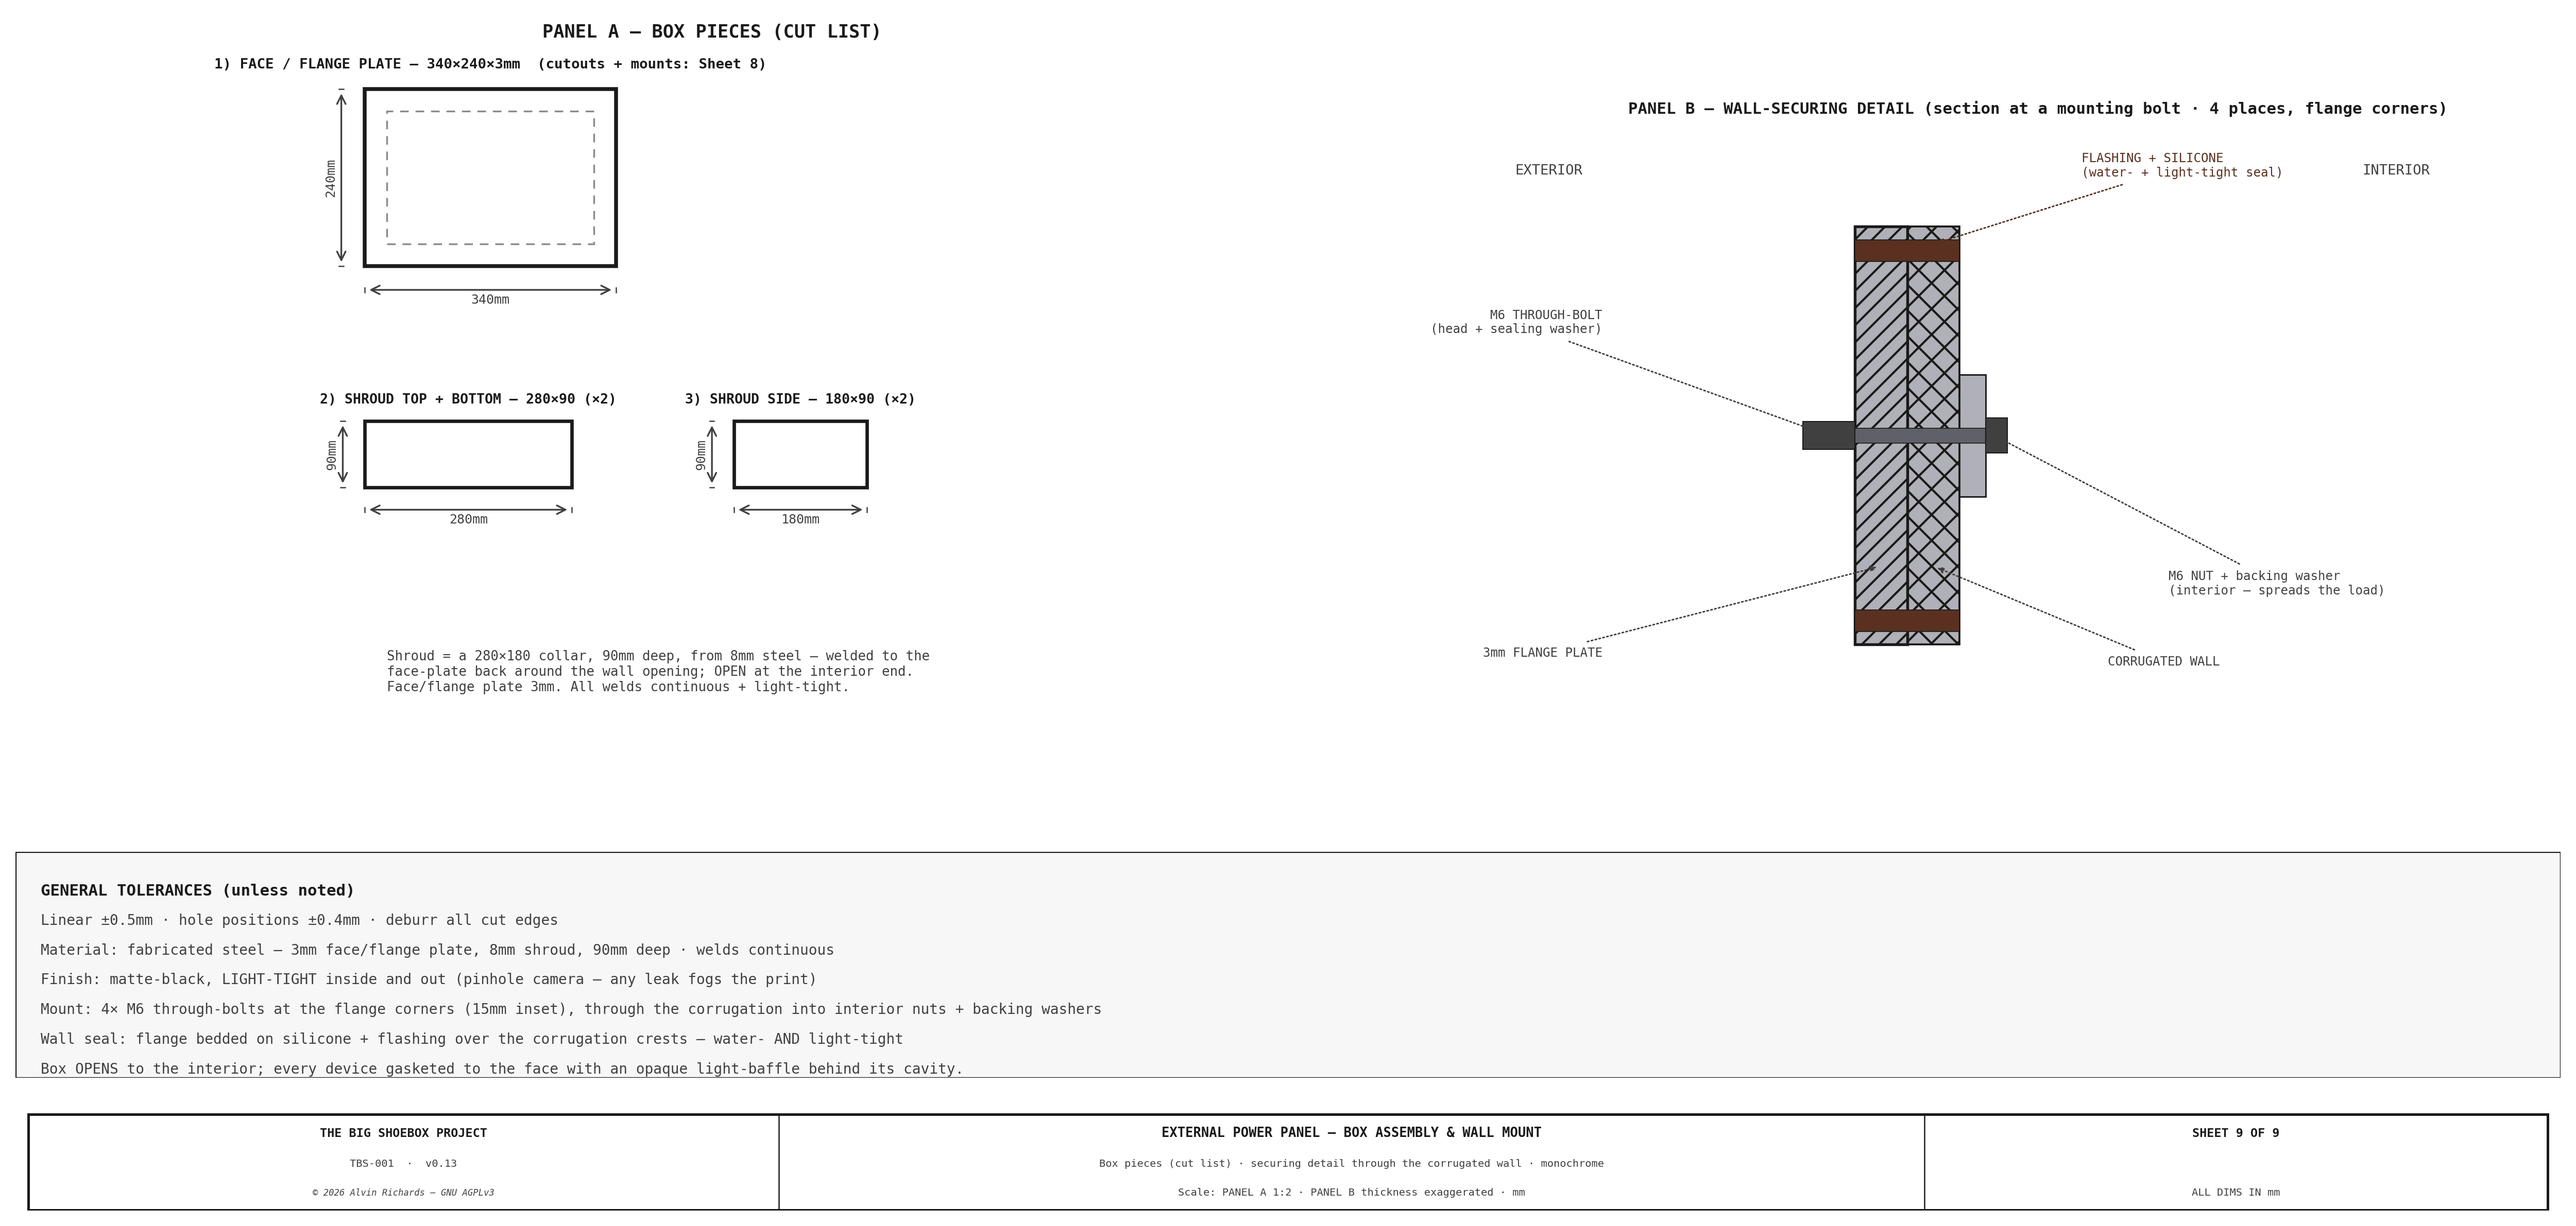
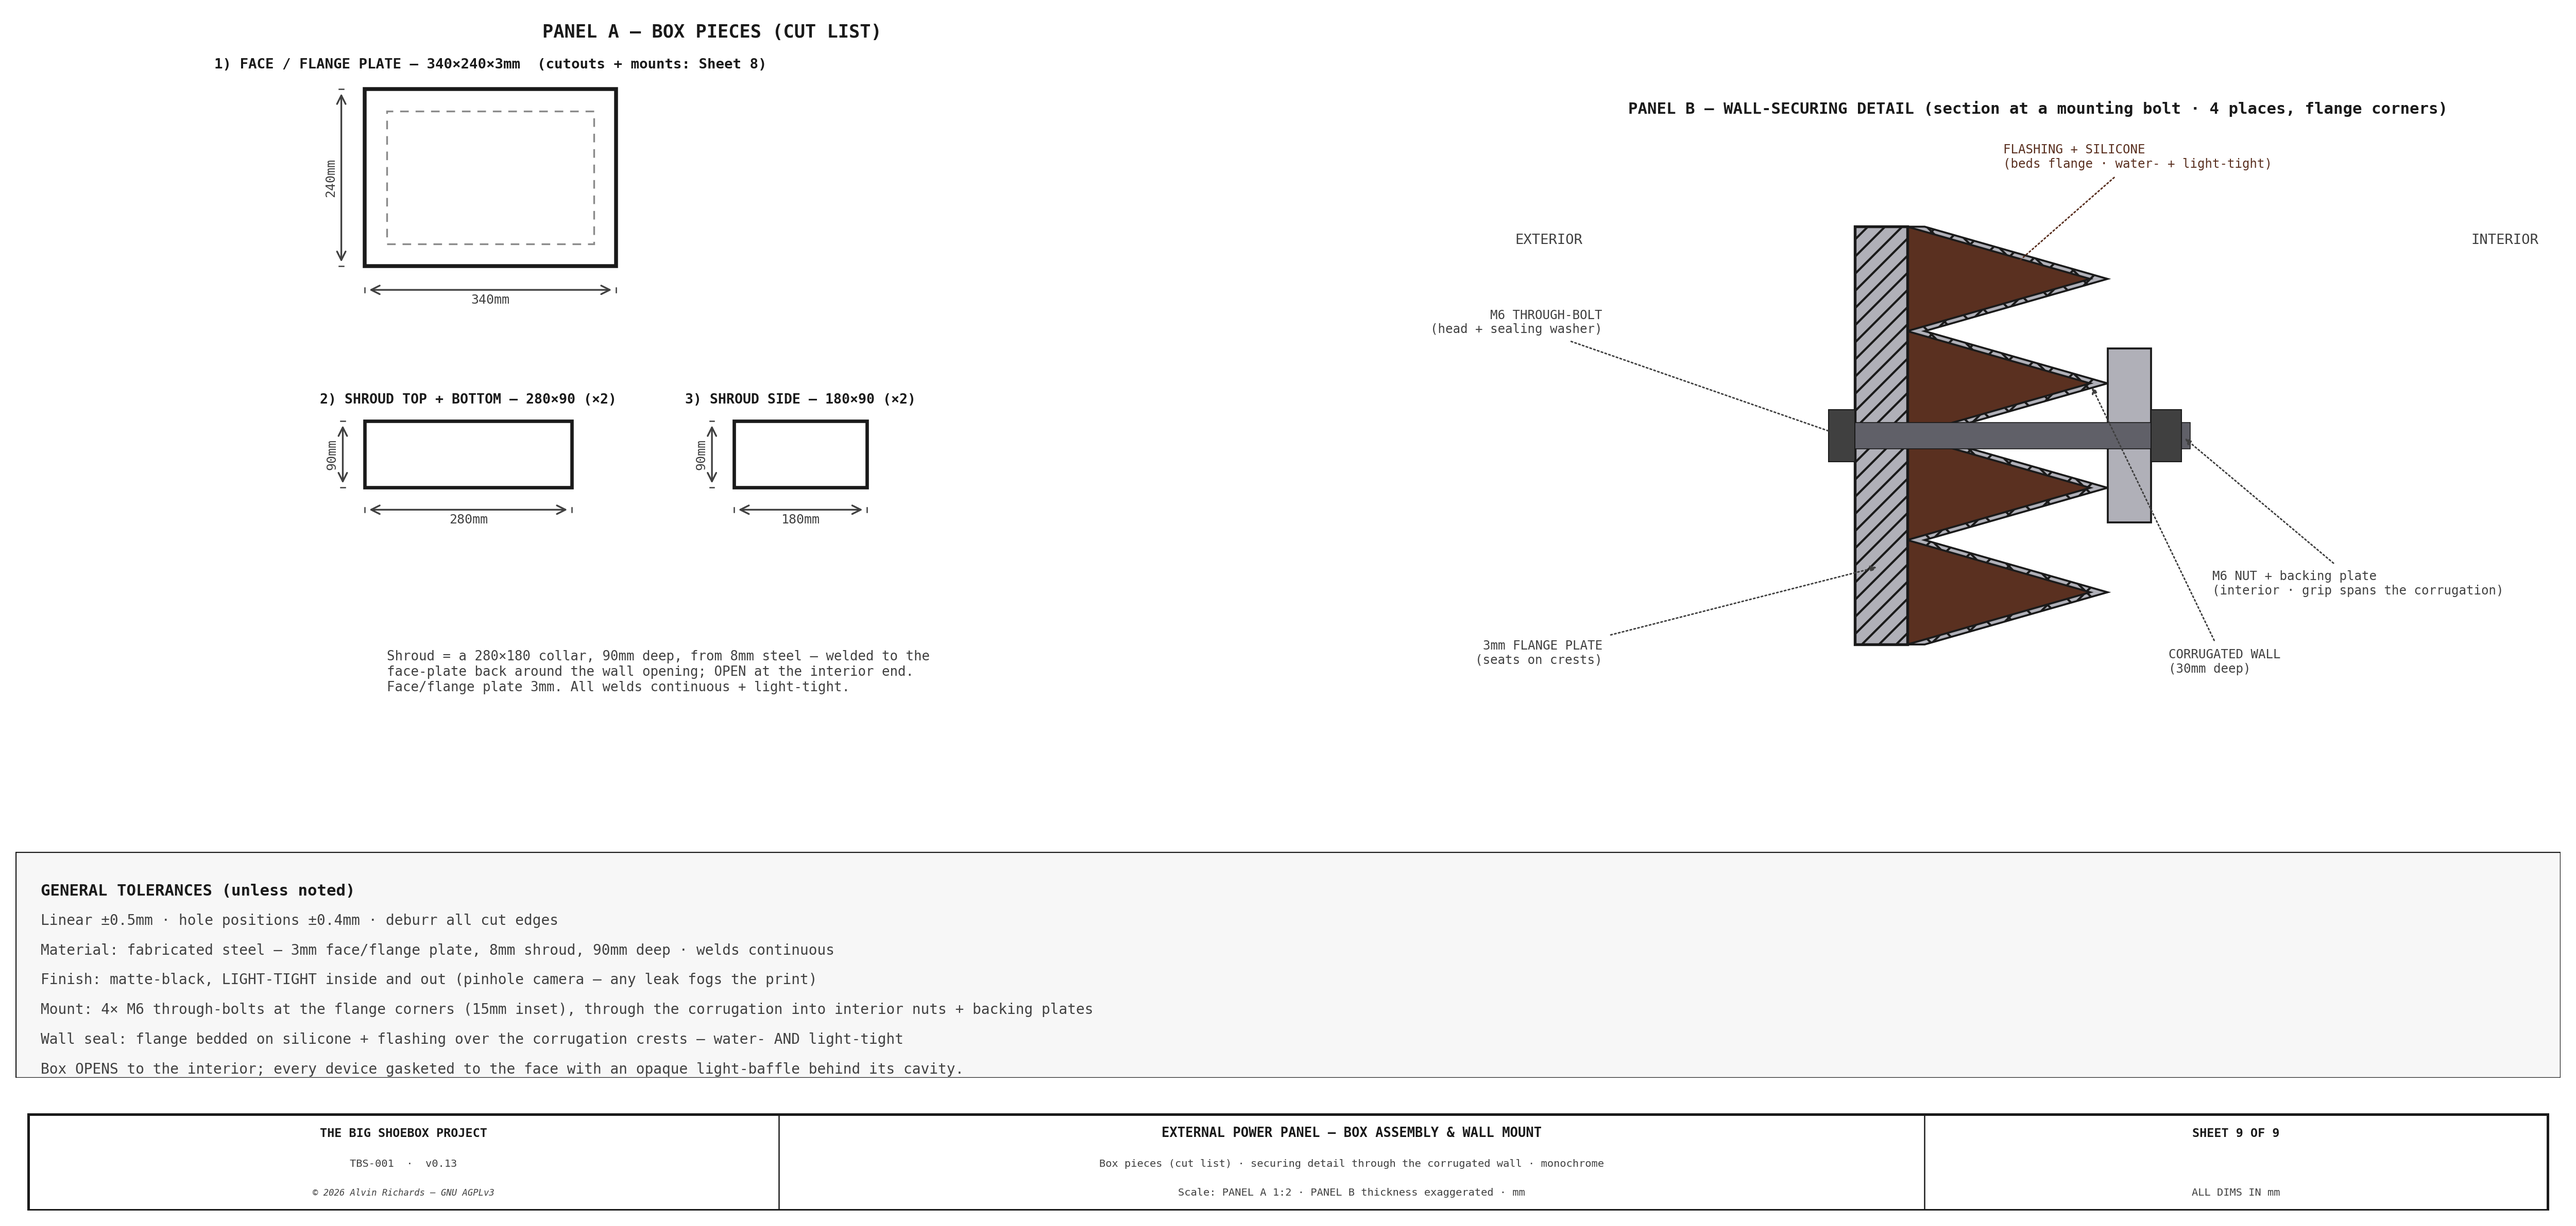
Electrical Sheet 9 Panel B: correct corrugated-wall mount detail + hex nut
Redraw the wall-securing section to the established project detail: the flat
flange seats on the corrugation crests, the flashing+silicone beds the
flange↔wall interface (was drawn as top/bottom bands), and the M6 through-bolt
grip spans the 30mm corrugation depth to an interior backing plate. Draw the
hex head and nut as a matched pair (thin axial × tall across-flats), fixing the
nut orientation.

diff --git a/src/generators/generate_electrical_diagram.py b/src/generators/generate_electrical_diagram.py
@@ -2423,7 +2423,7 @@ def draw_sheet9():
     """External Power Panel — BOX ASSEMBLY & WALL MOUNT (monochrome fab sheet).
     Panel A: the box as separate pieces, each dimensioned (face/flange plate + shroud walls).
     Panel B: a section through a mounting bolt showing how the box is secured through the wall."""
-    from tbs_constants import PWR_PANEL_BOX_D, PWR_PANEL_SHROUD_T
+    from tbs_constants import PWR_PANEL_BOX_D, PWR_PANEL_SHROUD_T, CONTAINER_CORRUGATION_DEPTH
     C_OUT = "#1A1A1A"; C_DIM = "#404040"; C_HID = "#8A8A8A"
     C_STEEL = "#B0B0B8"; C_GASKT = "#5A3020"
     FONT = {"fontfamily": "monospace"}
@@ -2462,34 +2462,44 @@ def draw_sheet9():
     ax.text(15, 40, f"Shroud = a {CW}×{CH} collar, {BD}mm deep, from {ST}mm steel — welded to the\nface-plate back around the wall opening; OPEN at the interior end.\nFace/flange plate {FT}mm. All welds continuous + light-tight.", ha="left", va="top", fontsize=6.2, color=C_DIM, **FONT)
     ax.text(235, 455, "PANEL A — BOX PIECES (CUT LIST)", ha="center", fontsize=8.5, fontweight="bold", color=C_OUT, **FONT)
 
-    # ══ PANEL B — securing through the wall (section at a mounting bolt) ══
+    # ══ PANEL B — securing through the wall (horizontal section at a mounting bolt) ══
+    # The container side wall is corrugated, so a flat flange can't seat flat: per the
+    # established project detail (disc-holder wall adapter, IBC wall-hangers), the flange
+    # seats on the corrugation CRESTS, the seal beds the flange↔wall interface, and the
+    # through-bolt grip spans the ~30mm corrugation depth to an interior backing plate + nut.
     axb = fig.add_subplot(gs[0, 1]); axb.set_aspect("equal"); axb.axis("off")
-    ex = 4.0
     axb.set_xlim(-95, 150); axb.set_ylim(-70, 80)
-    wt = 3 * ex                              # corrugated wall thickness (exaggerated)
-    # corrugated wall band (zigzag) at x=0
-    for k in range(4):
-        y0 = -48 + k * 24
-        axb.add_patch(mpatches.Polygon([(0, y0), (-8, y0 + 12), (0, y0 + 24)], closed=True, fc=C_STEEL, ec=C_OUT, lw=0.8, zorder=3))
-    axb.add_patch(mpatches.Rectangle((0, -48), wt, 96, fc=C_STEEL, ec=C_OUT, lw=0.9, hatch="xx", zorder=3))
-    # flange / face plate on the exterior face of the wall
-    axb.add_patch(mpatches.Rectangle((-FT * ex, -48), FT * ex, 96, fc=C_STEEL, ec=C_OUT, lw=1.3, hatch="///", zorder=5))
-    # flashing + silicone at the flange↔wall seal
-    axb.add_patch(mpatches.Rectangle((-FT * ex, 40), FT * ex + wt, 5, fc=C_GASKT, ec=C_OUT, lw=0.4, zorder=6))
-    axb.add_patch(mpatches.Rectangle((-FT * ex, -45), FT * ex + wt, 5, fc=C_GASKT, ec=C_OUT, lw=0.4, zorder=6))
-    # interior backing washer/plate + nut
-    axb.add_patch(mpatches.Rectangle((wt, -14), 6, 28, fc=C_STEEL, ec=C_OUT, lw=0.7, zorder=5))
-    # M6 through-bolt (head exterior, nut interior), horizontal at y=0
-    axb.add_patch(mpatches.Rectangle((-FT * ex - 12, -3.2), 12, 6.4, fc="#404040", ec=C_OUT, lw=0.5, zorder=7))   # hex head
-    axb.add_patch(mpatches.Rectangle((-FT * ex, -1.7), wt + 6 + 14, 3.4, fc="#606068", ec=C_OUT, lw=0.4, zorder=6))  # shank
-    axb.add_patch(mpatches.Rectangle((wt + 6, -4), 5, 8, fc="#404040", ec=C_OUT, lw=0.5, zorder=7))                  # nut
-    axb.text(-90, 60, "EXTERIOR", ha="left", fontsize=6.5, color=C_DIM, **FONT)
-    axb.text(120, 60, "INTERIOR", ha="right", fontsize=6.5, color=C_DIM, **FONT)
-    leader(axb, -FT * ex - 6, 0, -70, 26, f"M{MD} THROUGH-BOLT\n(head + sealing washer)", fs=5.8, color=C_DIM, ha="right", arrow_style="-|>", font=FONT)
-    leader(axb, wt + 8, 0, 60, -34, f"M{MD} NUT + backing washer\n(interior — spreads the load)", fs=5.8, color=C_DIM, ha="left", arrow_style="-|>", font=FONT)
-    leader(axb, wt / 2, 44, 40, 62, "FLASHING + SILICONE\n(water- + light-tight seal)", fs=5.8, color=C_GASKT, ha="left", arrow_style="-|>", font=FONT)
-    leader(axb, -FT * ex / 2, -30, -70, -50, f"{FT}mm FLANGE PLATE", fs=5.8, color=C_DIM, ha="right", arrow_style="-|>", font=FONT)
-    leader(axb, wt / 2, -30, 46, -52, "CORRUGATED WALL", fs=5.8, color=C_DIM, ha="left", arrow_style="-|>", font=FONT)
+    fex = 4.0                                     # flange/fastener scale (thin metal exaggerated)
+    dsc = 1.4                                      # corrugation-depth scale
+    CD = CONTAINER_CORRUGATION_DEPTH * dsc         # drawn corrugation depth (crest → trough)
+    ts = 4.0                                        # wall sheet thickness (exaggerated)
+    CDi = CD + ts                                   # interior face of the troughs
+    FTs = FT * fex                                  # flange thickness drawn
+    # corrugated wall sheet — exterior crests at x=0 (flange side), interior troughs at x=CD
+    ys = [-48, -36, -24, -12, 0, 12, 24, 36, 48]
+    outer = [(0.0 if i % 2 == 0 else CD, y) for i, y in enumerate(ys)]
+    axb.add_patch(mpatches.Polygon(outer + [(x + ts, y) for (x, y) in outer][::-1],
+                                   closed=True, fc=C_STEEL, ec=C_OUT, lw=0.9, hatch="xx", zorder=3))
+    # flashing + silicone — beds the flange to the corrugation (fills the exterior valleys)
+    for i in (0, 2, 4, 6):
+        axb.add_patch(mpatches.Polygon([(0, ys[i]), (CD, ys[i + 1]), (0, ys[i + 2])],
+                                       closed=True, fc=C_GASKT, ec=C_OUT, lw=0.4, zorder=2))
+    # flange / face plate — flat, seats on the exterior crests
+    axb.add_patch(mpatches.Rectangle((-FTs, -48), FTs, 96, fc=C_STEEL, ec=C_OUT, lw=1.3, hatch="///", zorder=5))
+    # interior backing plate — bridges the troughs, spreads the nut load
+    axb.add_patch(mpatches.Rectangle((CDi, -20), 10, 40, fc=C_STEEL, ec=C_OUT, lw=0.9, zorder=5))
+    # M6 through-bolt (head exterior, nut interior) — matched hex pair, thin axial × tall across-flats
+    HEX_AF, HEAD_THK, NUT_THK, SHANK_D = 12, 6, 7, 6
+    axb.add_patch(mpatches.Rectangle((-FTs - HEAD_THK, -HEX_AF / 2), HEAD_THK, HEX_AF, fc="#404040", ec=C_OUT, lw=0.5, zorder=7))   # hex head
+    axb.add_patch(mpatches.Rectangle((-FTs, -SHANK_D / 2), (CDi + 10 + NUT_THK + 2) + FTs, SHANK_D, fc="#606068", ec=C_OUT, lw=0.4, zorder=6))  # shank
+    axb.add_patch(mpatches.Rectangle((CDi + 10, -HEX_AF / 2), NUT_THK, HEX_AF, fc="#404040", ec=C_OUT, lw=0.5, zorder=7))            # hex nut
+    axb.text(-90, 44, "EXTERIOR", ha="left", fontsize=6.5, color=C_DIM, **FONT)
+    axb.text(145, 44, "INTERIOR", ha="right", fontsize=6.5, color=C_DIM, **FONT)
+    leader(axb, -FTs - HEAD_THK / 2, 0, -70, 26, f"M{MD} THROUGH-BOLT\n(head + sealing washer)", fs=5.8, color=C_DIM, ha="right", arrow_style="-|>", font=FONT)
+    leader(axb, CDi + 10 + NUT_THK, 0, 70, -34, f"M{MD} NUT + backing plate\n(interior · grip spans the corrugation)", fs=5.8, color=C_DIM, ha="left", arrow_style="-|>", font=FONT)
+    leader(axb, CD * 0.5, 36, 22, 64, "FLASHING + SILICONE\n(beds flange · water- + light-tight)", fs=5.8, color=C_GASKT, ha="left", arrow_style="-|>", font=FONT)
+    leader(axb, -FTs / 2, -30, -70, -50, f"{FT}mm FLANGE PLATE\n(seats on crests)", fs=5.8, color=C_DIM, ha="right", arrow_style="-|>", font=FONT)
+    leader(axb, CD, 12, 60, -52, f"CORRUGATED WALL\n({CONTAINER_CORRUGATION_DEPTH}mm deep)", fs=5.8, color=C_DIM, ha="left", arrow_style="-|>", font=FONT)
     axb.text(30, 74, "PANEL B — WALL-SECURING DETAIL (section at a mounting bolt · 4 places, flange corners)", ha="center", fontsize=7.4, fontweight="bold", color=C_OUT, **FONT)
 
     # ══ notes ══
@@ -2498,7 +2508,7 @@ def draw_sheet9():
         "Linear ±0.5mm · hole positions ±0.4mm · deburr all cut edges",
         f"Material: fabricated steel — {FT}mm face/flange plate, {ST}mm shroud, {BD}mm deep · welds continuous",
         "Finish: matte-black, LIGHT-TIGHT inside and out (pinhole camera — any leak fogs the print)",
-        "Mount: 4× M6 through-bolts at the flange corners (15mm inset), through the corrugation into interior nuts + backing washers",
+        "Mount: 4× M6 through-bolts at the flange corners (15mm inset), through the corrugation into interior nuts + backing plates",
         "Wall seal: flange bedded on silicone + flashing over the corrugation crests — water- AND light-tight",
         "Box OPENS to the interior; every device gasketed to the face with an opaque light-baffle behind its cavity.",
     ]

diff --git a/RELEASE.md b/RELEASE.md
@@ -24,7 +24,7 @@ file** — a release must not ship without a changelog entry:
 
 ## [Unreleased]
 
-- **Electrical penetration box — fabrication blueprint added (Sheets 8 + 9).** The external power panel's fabricated flanged wall-penetration box was documented (arrangement + wall section + wiring on Sheet 6) but had no dimensioned fab drawing, and §5.4 carried a stale note claiming the drawing showed "superseded flush-plate geometry" — it doesn't; Sheet 6 already renders the current flanged box. Added two monochrome single-part fab sheets: **Sheet 8 — Face plate fabrication**, the front-face cut layout with a **dim_h (X) and dim_v (Y)** locating *every* hole/cutout/bolt from the lower-left datum (6× ⌀17 MC4 holes, ⌀22.5 E-stop, shore-inlet and 1-gang duplex cutouts, 4× ⌀6 M6 mounts, 280×180 wall cutout, 340×240 overall) plus cut sizes; and **Sheet 9 — Box assembly & wall mount**, the box as a cut list (face/flange plate + shroud top/bottom + shroud sides, each dimensioned) and a section through a mounting bolt showing how the box is secured through the corrugated wall (4× M6 through-bolts → interior nuts + backing washers, flashing+silicone seal). Both carry a material/finish/tolerance block. Corrected the stale §5.4 note; registered the sheets (set renumbered to "of 9").
+- **Electrical penetration box — fabrication blueprint added (Sheets 8 + 9).** The external power panel's fabricated flanged wall-penetration box was documented (arrangement + wall section + wiring on Sheet 6) but had no dimensioned fab drawing, and §5.4 carried a stale note claiming the drawing showed "superseded flush-plate geometry" — it doesn't; Sheet 6 already renders the current flanged box. Added two monochrome single-part fab sheets: **Sheet 8 — Face plate fabrication**, the front-face cut layout with a **dim_h (X) and dim_v (Y)** locating *every* hole/cutout/bolt from the lower-left datum (6× ⌀17 MC4 holes, ⌀22.5 E-stop, shore-inlet and 1-gang duplex cutouts, 4× ⌀6 M6 mounts, 280×180 wall cutout, 340×240 overall) plus cut sizes; and **Sheet 9 — Box assembly & wall mount**, the box as a cut list (face/flange plate + shroud top/bottom + shroud sides, each dimensioned) and a section through a mounting bolt showing how the box is secured through the corrugated wall — the flat flange seats on the corrugation crests, the flashing+silicone beds the flange↔wall interface, and the 4× M6 through-bolt grip spans the 30mm corrugation depth to interior nuts + backing plates (the established project wall-mount detail). Both carry a material/finish/tolerance block. Corrected the stale §5.4 note; registered the sheets (set renumbered to "of 9").
 - **Diagram-usage audit — every generated diagram now lives in an owning report (0 hanging).** A full audit mapped all 150 generated PNGs to the reports that embed them and found 13 that were in the gallery but shown in no report. The headline set was 8 **film-plane** sheets — the six per-part **fabrication detail** sheets (depth rail, acetal skate, cross-slide stack, corner plate, frame weldment, wall-seat saddle) that the report's "Fabrication Detail Sheets" section *described* but never displayed, plus the movement-spec/BOM and the frame-corner↔cross-slide attachment detail — all embedded into `film-plane-mechanism-report` so the shop-buildable blueprints are actually visible. The remaining 5 were placed by kind: the three joint-selection studies (concept options + gimbal + U-joint) into the `film-plane-joint-research` decision record, the Mini-TBS proof-of-concept into the funding proposal's education section, and the pinhole-wall elevation into the engineering overview. `all-diagrams.md` remains complete (150/150).
 - **Sketchfab first-upload papercut fixed.** A brand-new model whose `dependencies.yml` uid was still the all-zeros placeholder used to stamp that placeholder into the model's `sketchfab/model_id`, so the plugin tried to *update* a nonexistent id and the upload failed. `sketchfab_meta_ruby` now writes `model_id` only when a real uid is held and the slot is blank or all-zeros — a new model uploads as new, a leftover placeholder is replaced on the next send, and a real / UI-set id is never clobbered. It also re-syncs the Sketchfab `model_title`/`model_description` to the generator's identity unless they were edited in the Sketchfab UI (tracked via `_gen_*` shadow attributes), so a repurposed doc no longer carries a stale title. Every emitted line stays within `manifest.py`'s identity filter, so no model `source_hash` churns.
 
